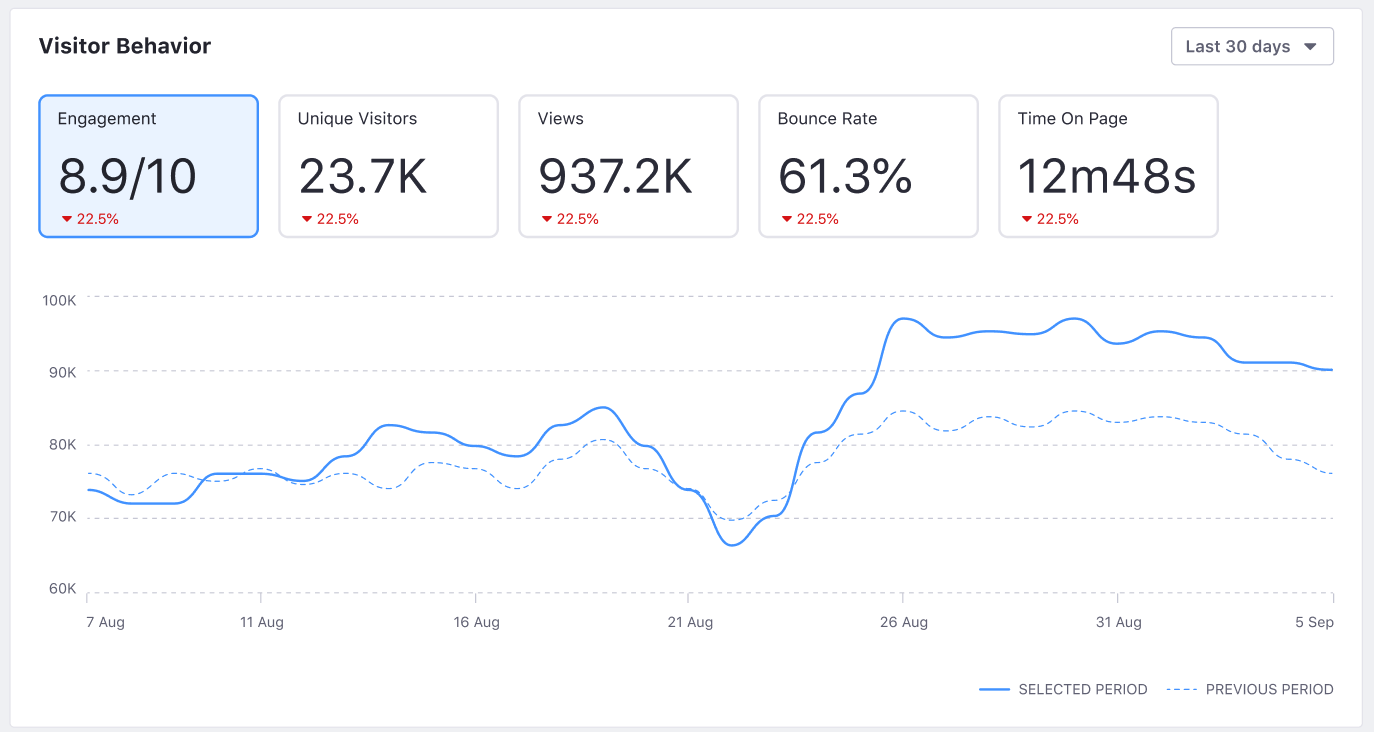
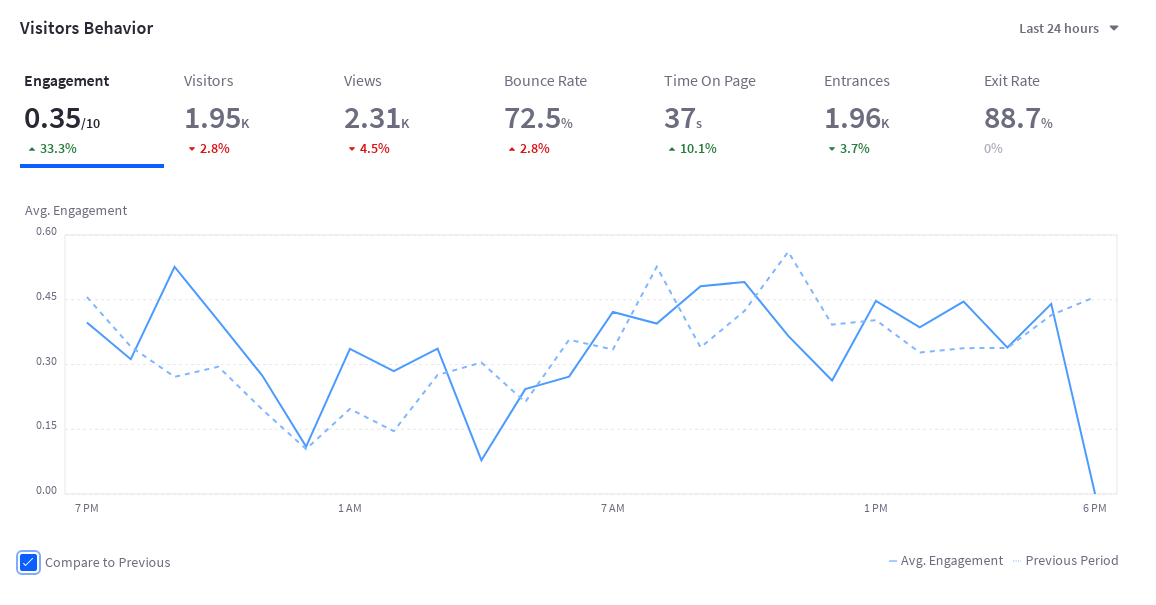
updated images and updated md files

diff --git a/docs/analytics-cloud/latest/en/touchpoints/pages/pages.md b/docs/analytics-cloud/latest/en/touchpoints/pages/pages.md
@@ -33,6 +33,8 @@ The Overview tab of a Page's metrics has several data presentations. The first c
 * Total Views
 * Bounce Rate
 * Average Time on Page
+* Entrances
+* Exit Rates
 
 Select the time period for the data displayed. There are always two trend lines displayed: Selected Period and Previous Period. This facilitates comparisons between time periods.
 
@@ -62,7 +64,7 @@ A unique visitor has a unique IP address in Analytics Cloud. Therefore, if the s
 
 Useful with the time period filter, Page View is the number of views for a Page Page in a given period of time. It's not the same as the number of visitors, because it doesn't try to count only unique IP addresses. Over the last 30 days, one visitor (IP address) could come back to the Page 100 times. That means there are 100 Page Views, but only one visitor (assuming she used the same machine to access the Page each time. However, a unique view isn't logged for a single user unless at least 30 minutes of inactivity on the Page passes before the user interacts with the Page again.
 
-### Page Bounce Rates
+### Page Bounce Rate
 
 Bounce Rate is the percentage of visitors to the Page that navigated away from the site without any page interaction (including scrolling on the page) after the initial page load. It's calculated as a daily rate (percentage per day), and the daily rate trend line is displayed over the selected time period.
 
@@ -75,6 +77,14 @@ This metric is calculated like this for each 24 hour period:
 ```
 (view-1-time + view-2-time + ...) / total-number-views
 ```
+
+### Entrances
+
+Entrances is the number visitors who arrived to your Site from this Page (as opposed to those who started on a difference page and clicked through to this Page).
+
+### Exit Rate
+
+Exit Rate is the percentage of visitors who interacted with the Page (such as scrolling or clicking) and then left the Site.
 
 ## Audience
 

diff --git a/docs/analytics-cloud/latest/en/touchpoints/touchpoints.md b/docs/analytics-cloud/latest/en/touchpoints/touchpoints.md
@@ -118,8 +118,10 @@ Order Pages in ascending or descending order based on any one of these metrics. 
 * Average Engagement Score
 * Total Visitors
 * Total Views
-* Average Bounce Rate
 * Average Time on Page
+* Average Bounce Rate
+* Entrances
+* Exit Rate
 
 The metrics for ordering the Page list are calculated based on the time period selected in the time period menu (at the top-right of the table). The following values are supported:
 
